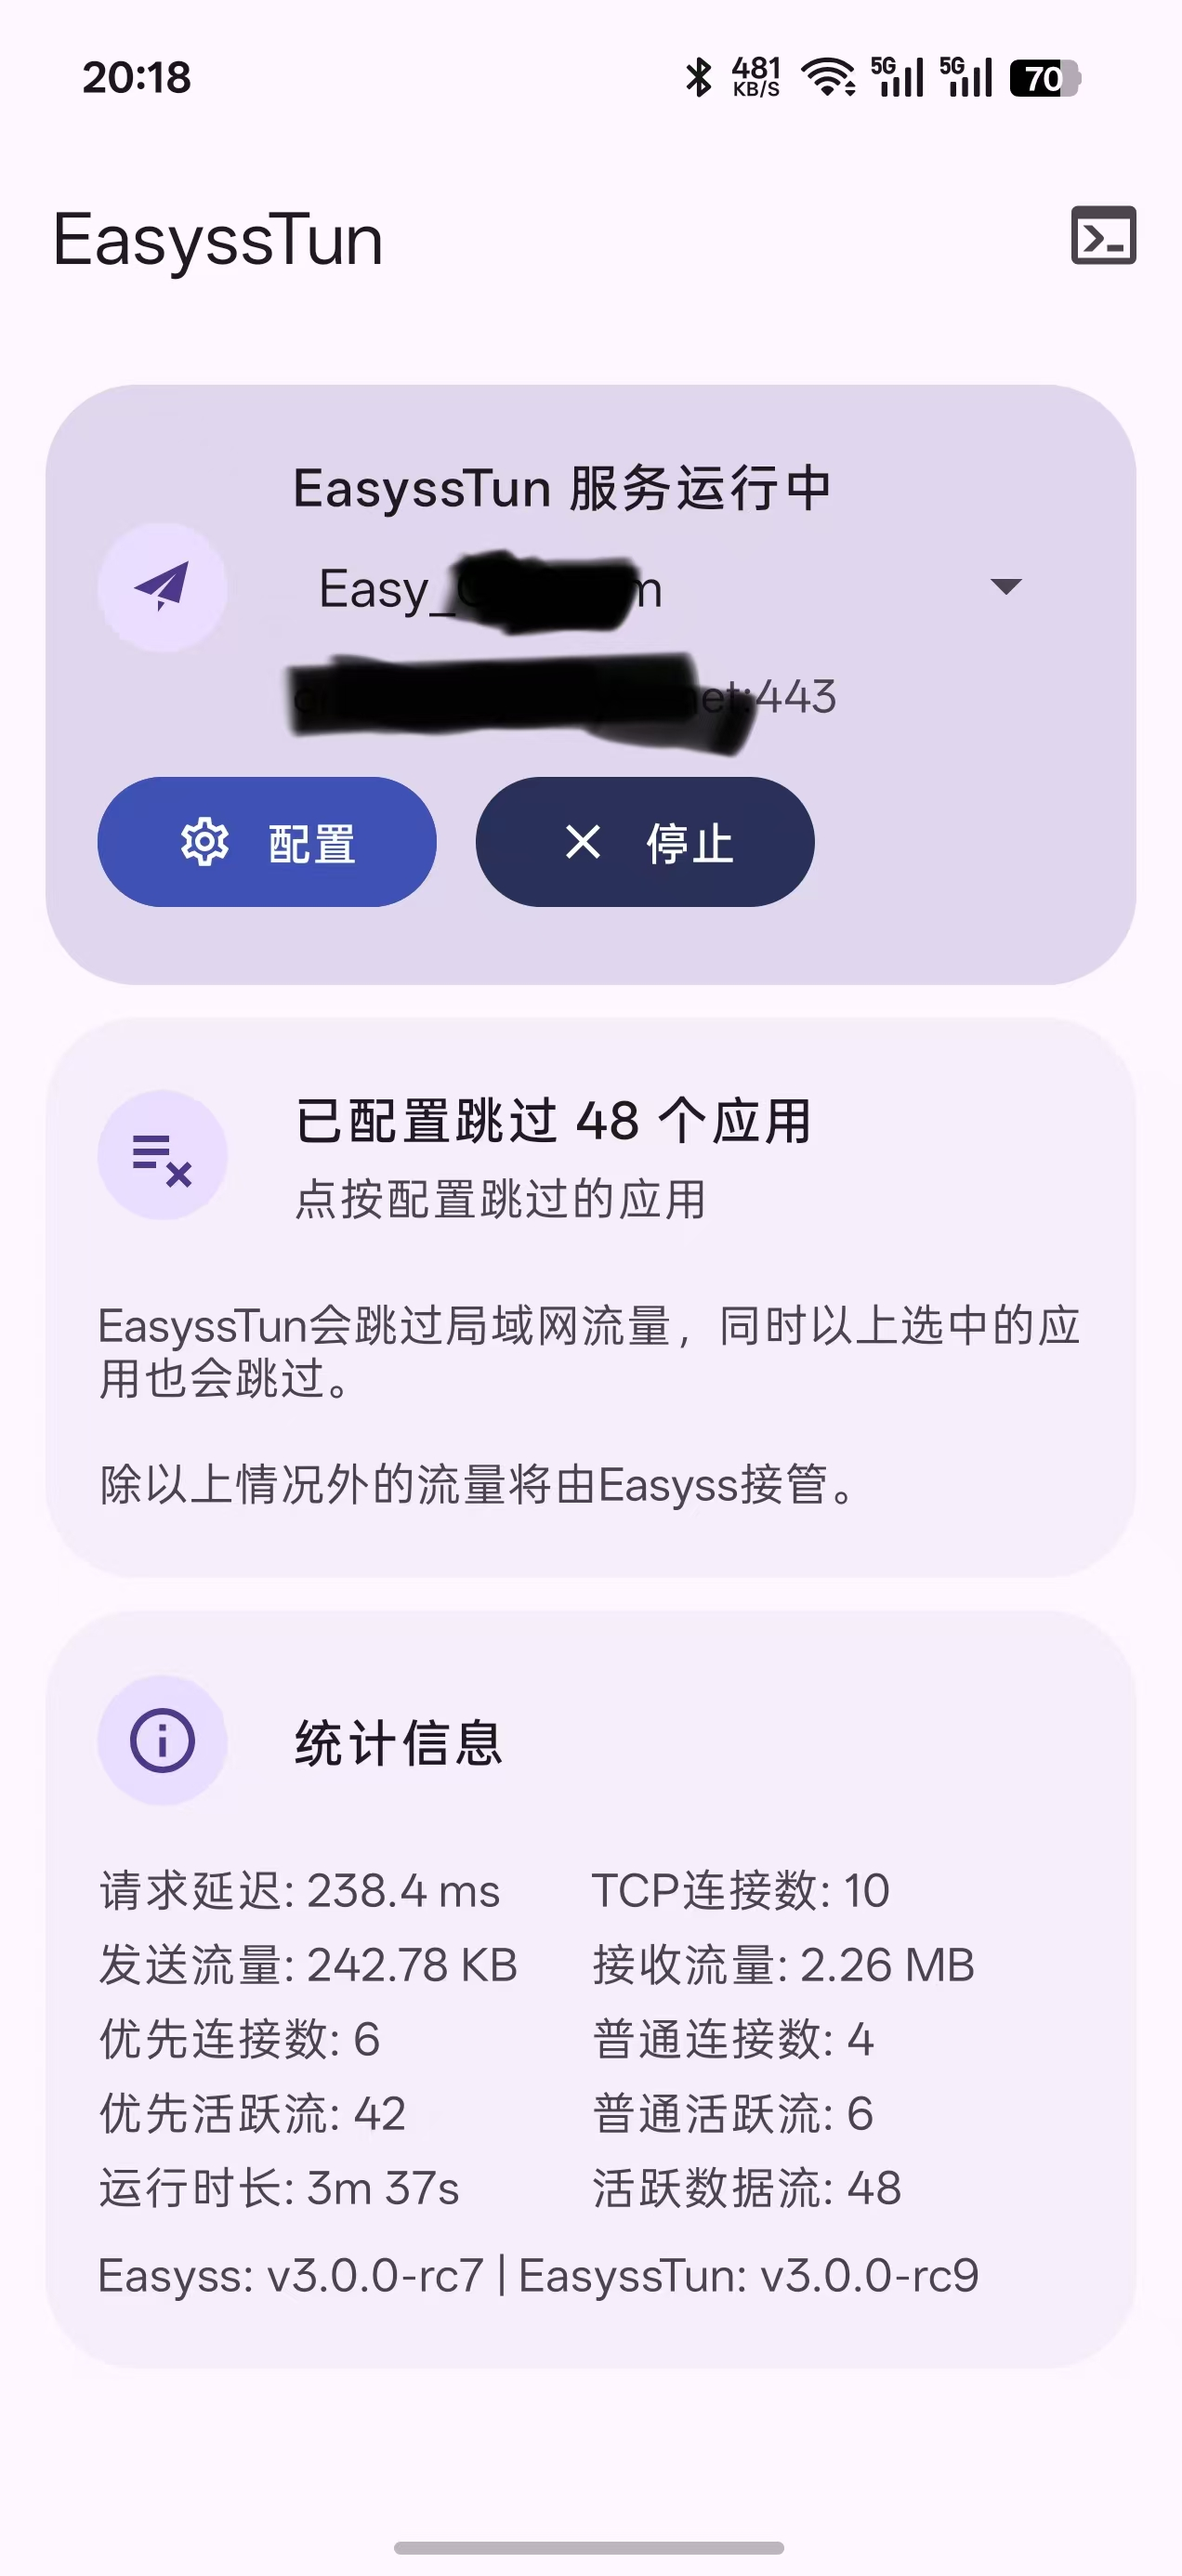
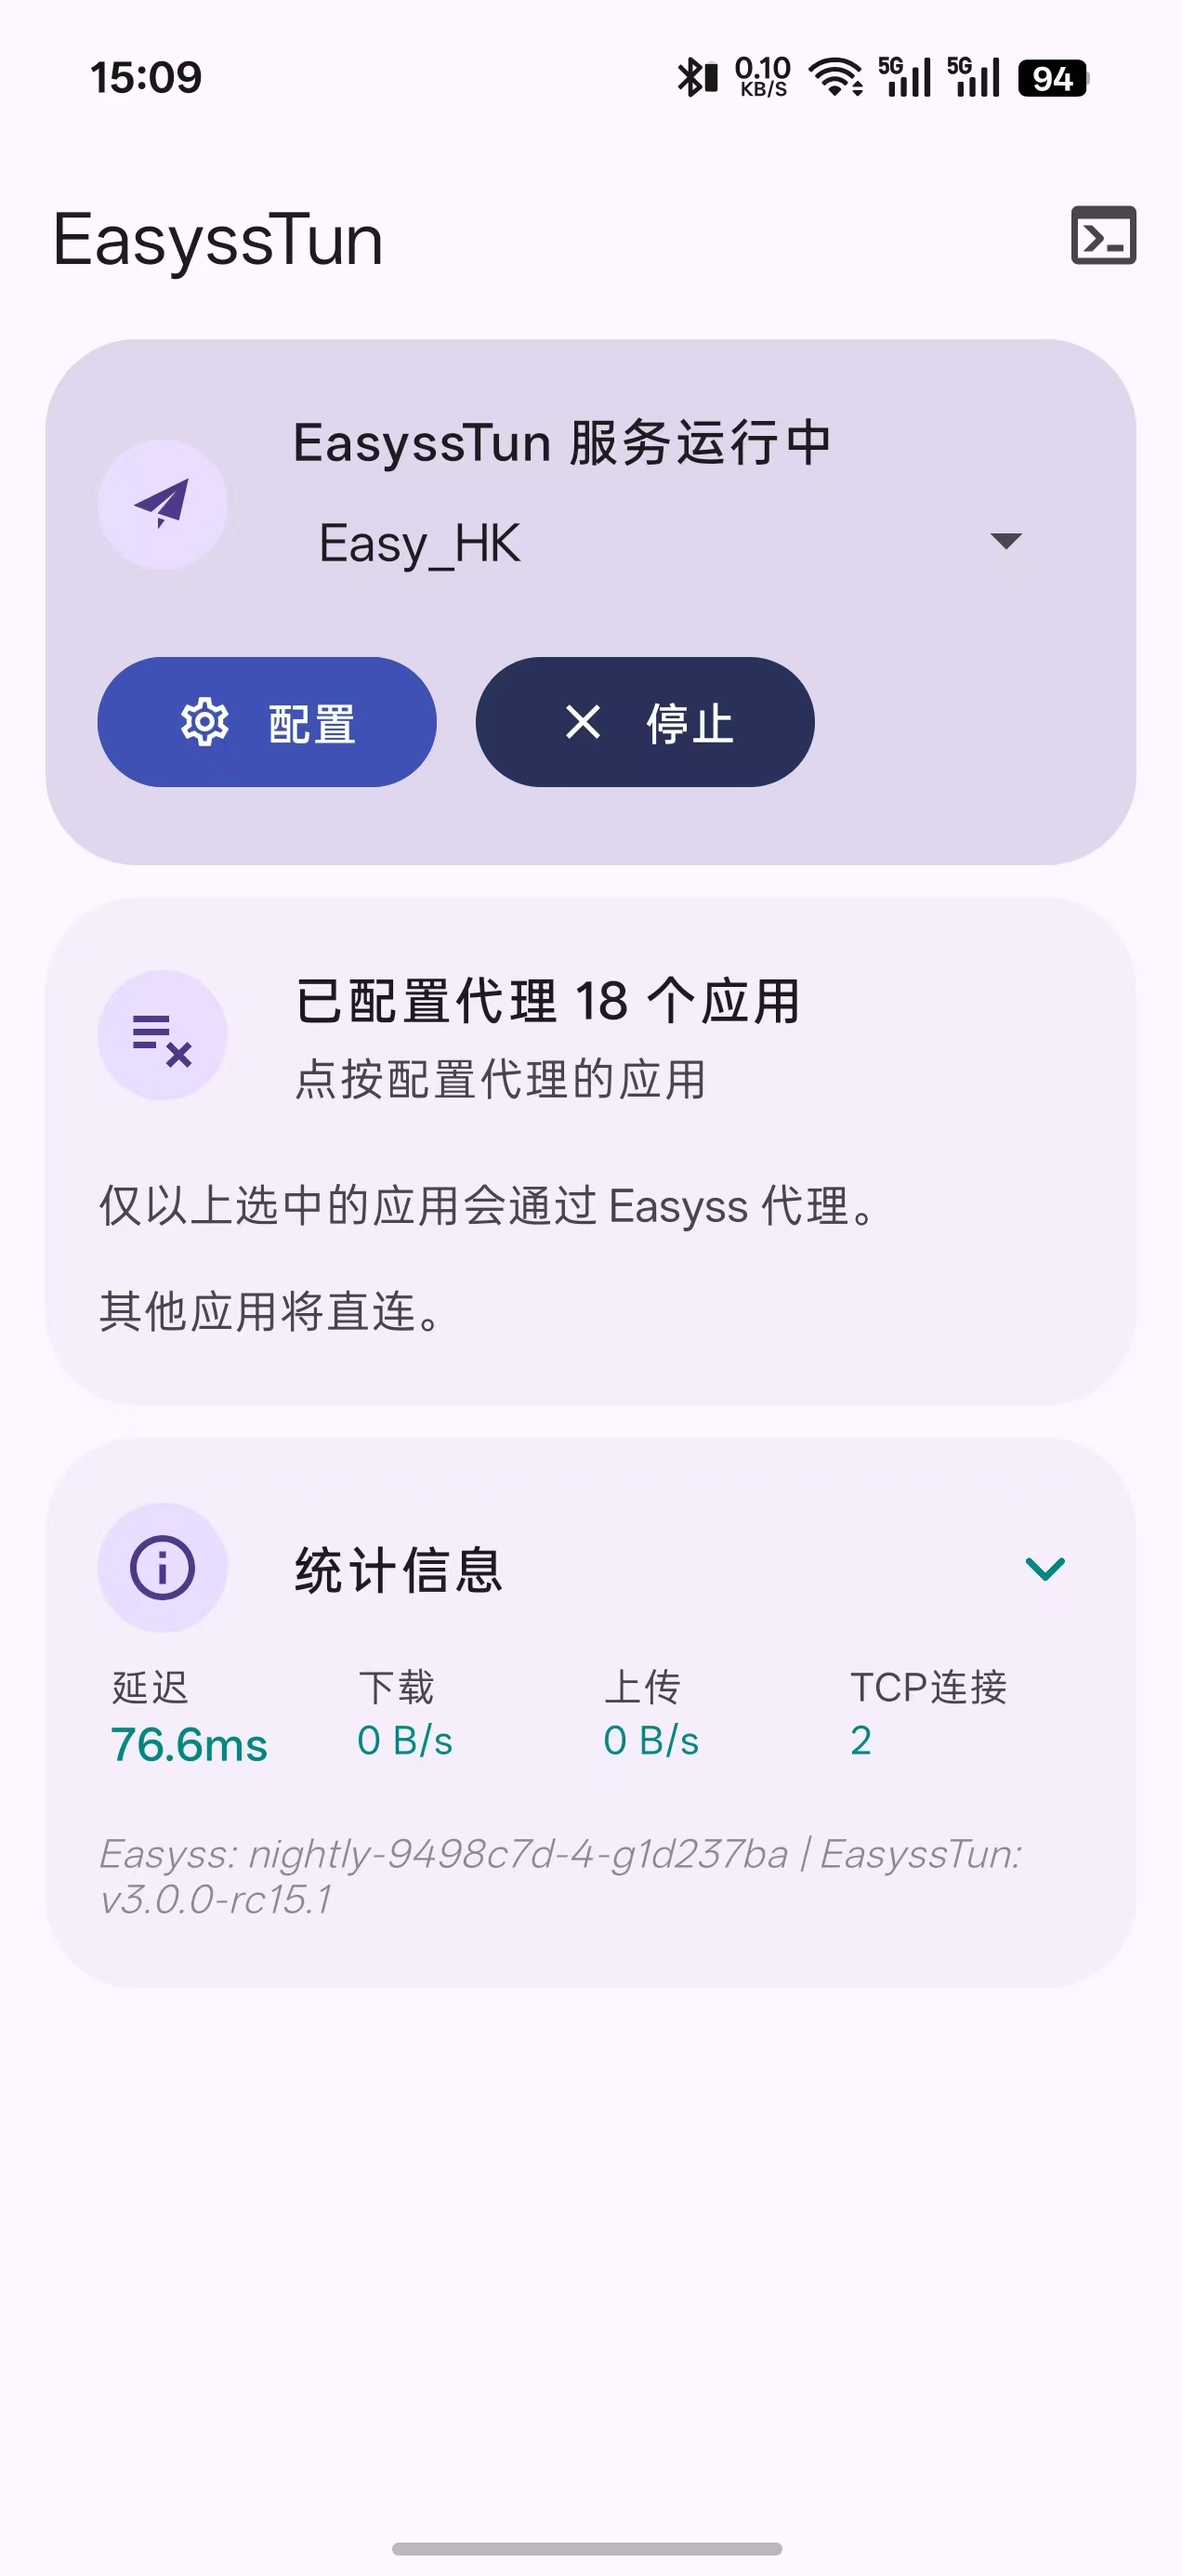
docs: add new app screenshots to README

diff --git a/README.md b/README.md
@@ -9,7 +9,16 @@
 <div align="center">
   <img src="assets/app1.jpg" width="30%" alt="App Screenshot 1" />
   &nbsp;&nbsp;
-  <img src="assets/app2.jpg" width="30%" alt="App Screenshot 2" />
+  <img src="assets/app1_1.jpg" width="30%" alt="App Screenshot 2" />
+  &nbsp;&nbsp;
+  <img src="assets/app2.jpg" width="30%" alt="App Screenshot 3" />
+</div>
+<div align="center">
+  <img src="assets/app3.jpg" width="30%" alt="App Screenshot 4" />
+  &nbsp;&nbsp;
+  <img src="assets/app4.jpg" width="30%" alt="App Screenshot 5" />
+  &nbsp;&nbsp;
+  <img src="assets/app5.jpg" width="30%" alt="App Screenshot 6" />
 </div>
 
 ## 构建方式
